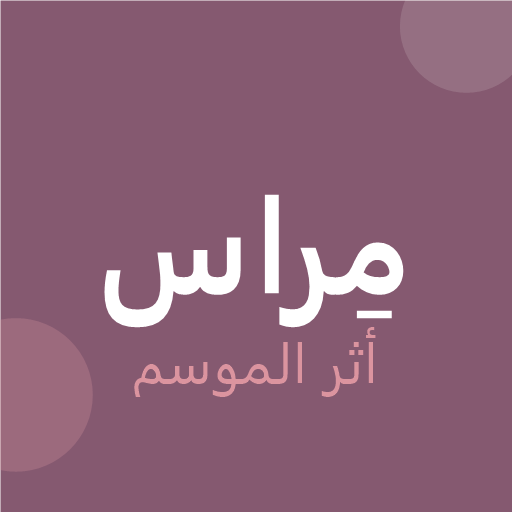
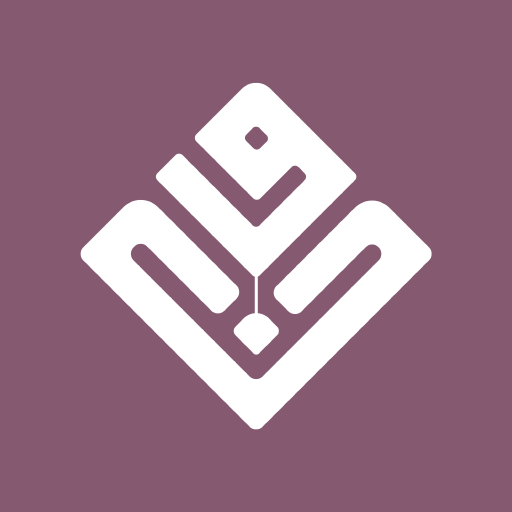
تحديث أيقونات PWA بشعار جديد ورفع كاش الخدمة إلى v5

Changed region(s): [[0.1562, 0.1562, 0.8438, 0.8438], [0.0, 0.0, 0.0312, 0.0312]]

diff --git a/public/sw.js b/public/sw.js
@@ -4,8 +4,9 @@
  *
  * v2: تخزين الصفحتين (الرئيسية + عن المبادرة) وأصولهما مسبقاً عند التثبيت،
  *     وإصلاح الدخول المباشر دون إنترنت، وتخزين الخطوط المتقاطعة المصدر.
+ * v5: تحديث أيقونات التطبيق (شعار جديد) — كسر كاش الأيقونة القديمة عبر أسماء كاش جديدة.
  */
-const VERSION = "v4";
+const VERSION = "v5";
 const PAGES_CACHE = `miras-pages-${VERSION}`;
 const ASSETS_CACHE = `miras-assets-${VERSION}`;
 
